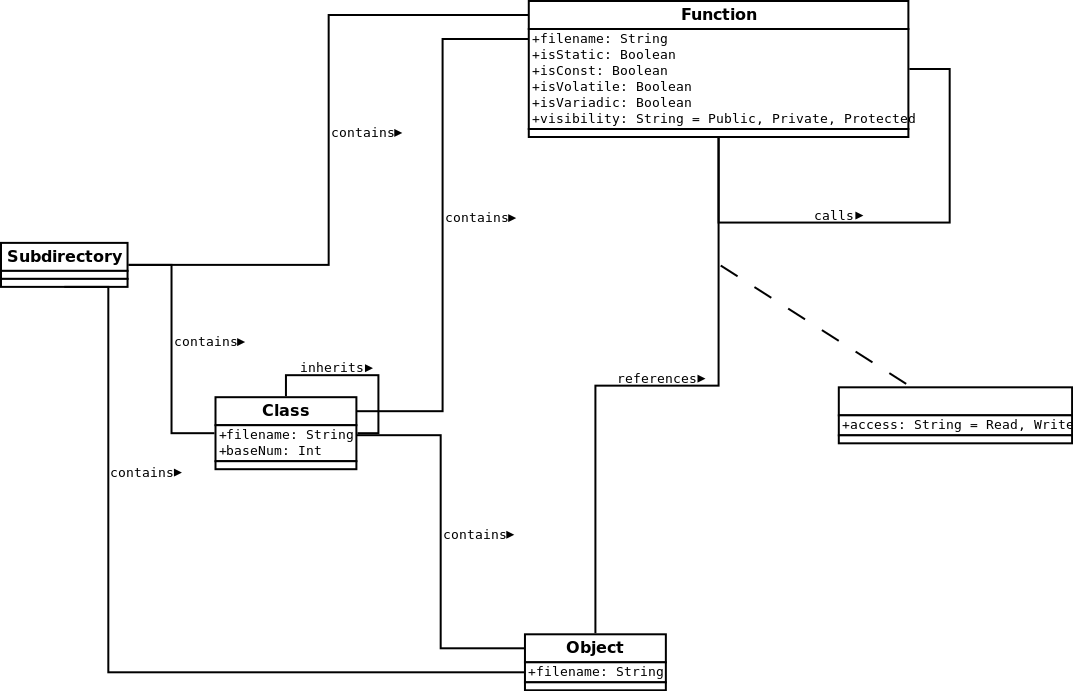
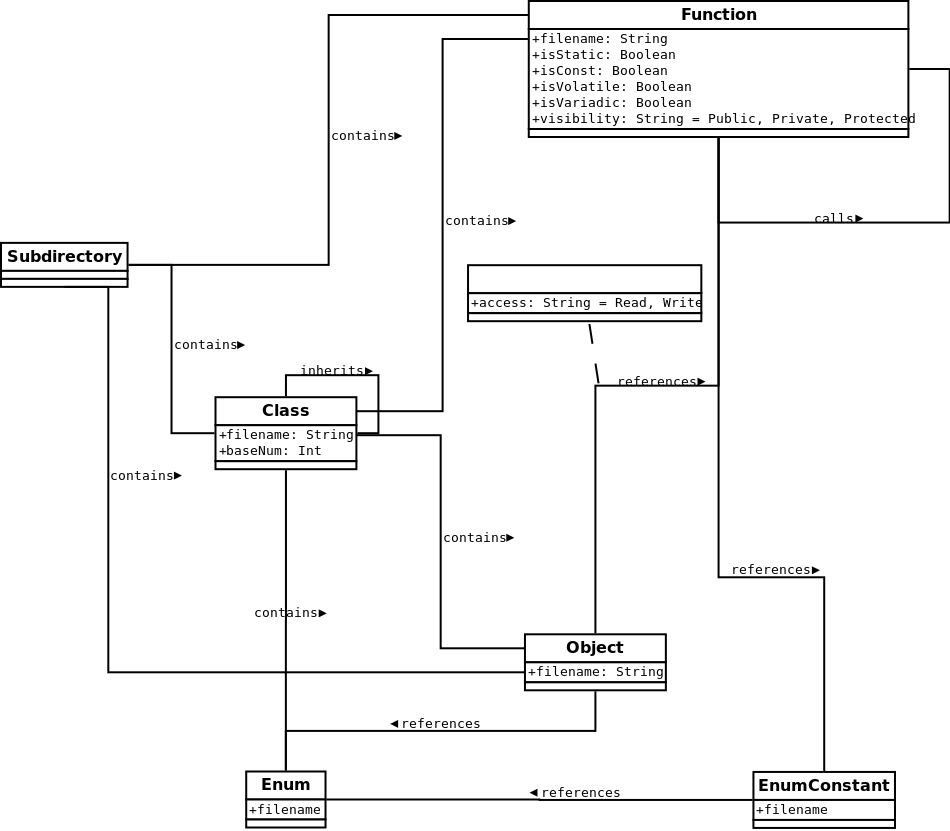
Changed the object entity to variable

Changed region(s): [[0.0, 0.0, 1.0, 1.0]]

diff --git a/Graph/TAGraph.h b/Graph/TAGraph.h
@@ -45,22 +45,18 @@ private:
 
     std::string const TA_SCHEMA = "//Generated TA File\n//Author: Jingwei Wu & Bryan J Muscedere\n\nSCHEME TUPLE :\n//No"
             "des\n$INHERIT\tcArchitecturalNds\tcRoot\n$INHERIT\tcAsgNds\t\t\tcRoot\n$INHERIT\tcSubSystem\t\tcArchitectur"
-            "alNds\n$INHERIT\tcFile\t\t\tcArchitecturalNds\n$INHERIT\tcExecutable\t\tcFile\n$INHERIT\tcObjectFile\t\tcFi"
-            "le\n$INHERIT\tcArchiveFile\t\tcFile\n$INHERIT\tcClass\t\t\tcAsgNds\n$INHERIT\tcFunction\t\tcAsgNds\n$INHERI"
-            "T\tcObject\t\t\tcAsgNds\n$INHERIT\tcLang\t\t\tcAsgNds\n$INHERIT\tcEnum\t\t\tcLang\n$INHERIT\tcStruct\t\t\tc"
-            "Lang\n$INHERIT\tcUnion\t\t\tcLang\n\n//Relationships\ncontain\t\tcRoot\t\tcRoot\ncall\t\tcFunction\tcFuncti"
-            "on\nreference\tcAsgNds\t\tcAsgNds\ninherits\tcClass\t\tcClass\n\nSCHEME ATTRIBUTE :\n$ENTITY {\n\tx\n\ty\n"
-            "\twidth\n\theight\n\tlabel\n}\n\ncRoot {\n\telision = contain\n\tcolor = (0.0 0.0 0.0)\n\tfile\n\tline\n\tn"
-            "ame\n}\n\ncAsgNds {\n\tbeg\n\tend\n\tfile\n\tline\n\tvalue\n\tcolor = (0.0 0.0 0.0)\n}\n\ncArchitecturalNds"
-            " {\n\tclass_style = 4\n\tcolor = (0.0 0.0 1.0)\n\tcolor = (0.0 0.0 0.0)\n}\n\ncSubSystem {\n\tclass_style ="
-            " 4\n\tcolor = (0.0 0.0 1.0)\n}\n\ncFile {\n\tclass_style = 2\n\tcolor = (0.9 0.9 0.9)\n\tlabelcolor = (0.0 "
-            "0.0 0.0)\n}\n\ncExecutable {\n\tclass_style = 4\n\tcolor = (0.8 0.9 0.9)\n\tlabelcolor = (0.0 0.0 0.0)\n}\n"
-            "\ncObjectFile {\n\tclass_style = 4\n\tcolor = (0.6 0.8 0.6)\n\tlabelcolor = (0.0 0.0 0.0)\n}\n\ncArchiveFil"
-            "e {\n\tclass_style = 4\n\tcolor = (0.5 0.5 0.1)\n\tlabelcolor = (0.0 0.0 0.0)\n}\n\ncFunction {\n\tfilename"
-            "\n\tisStatic\n\tisConst\n\tisVolatile\n\tisVariadic\n\tvisibility\n\tcolor = (1.0 0.0 0.0)\n\tlabelcolor = "
-            "(0.0 0.0 0.0)\n}\n\ncObject {\n\tfilename\n}\n\ncClass {\n\tfilename\n\tbaseNum\n\tcolor = (0.2 0.4 0.1)\n"
-            "\tlabelcolor = (0.0 0.0 0.0)\n}\n\ncEnum {\n\tfilename\n\tcolor = (0.9 0.2 0.5)\n\tlabelcolor = (0.0 0.0 0."
-            "0)\n}\n\n(reference) {\n\taccess\n}\n\n";
+            "alNds\n$INHERIT\tcFile\t\t\tcArchitecturalNds\n$INHERIT\tcClass\t\t\tcAsgNds\n$INHERIT\tcFunction\t\tcAsgNd"
+            "s\n$INHERIT\tcVariable\t\tcAsgNds\n$INHERIT\tcLang\t\t\tcAsgNds\n$INHERIT\tcEnum\t\t\tcLang\n$INHERIT\tcStr"
+            "uct\t\t\tcLang\n$INHERIT\tcUnion\t\t\tcLang\n\n//Relationships\ncontain\t\tcRoot\t\tcRoot\ncall\t\tcFunctio"
+            "n\tcFunction\nreference\tcAsgNds\t\tcAsgNds\ninherits\tcClass\t\tcClass\n\nSCHEME ATTRIBUTE :\n$ENTITY {\n\t"
+            "x\n\ty\n\twidth\n\theight\n\tlabel\n}\n\ncRoot {\n\telision = contain\n\tcolor = (0.0 0.0 0.0)\n\tfile\n\tl"
+            "ine\n\tname\n}\n\ncAsgNds {\n\tbeg\n\tend\n\tfile\n\tline\n\tvalue\n\tcolor = (0.0 0.0 0.0)\n}\n\ncArchitec"
+            "turalNds {\n\tclass_style = 4\n\tcolor = (0.0 0.0 1.0)\n\tcolor = (0.0 0.0 0.0)\n}\n\ncSubSystem {\n\tclass"
+            "_style = 4\n\tcolor = (0.0 0.0 1.0)\n}\n\ncFile {\n\tclass_style = 2\n\tcolor = (0.9 0.9 0.9)\n\tlabelcolor"
+            " = (0.0 0.0 0.0)\n}\n\ncFunction {\n\tfilename\n\tisStatic\n\tisConst\n\tisVolatile\n\tisVariadic\n\tvisibi"
+            "lity\n\tcolor = (1.0 0.0 0.0)\n\tlabelcolor = (0.0 0.0 0.0)\n}\n\ncVariable {\n\tfilename\n}\n\ncClass {\n\t"
+            "filename\n\tbaseNum\n\tcolor = (0.2 0.4 0.1)\n\tlabelcolor = (0.0 0.0 0.0)\n}\n\ncEnum {\n\tfilename\n\tcol"
+            "or = (0.9 0.2 0.5)\n\tlabelcolor = (0.0 0.0 0.0)\n}\n\n(reference) {\n\taccess\n}\n\n";
 
     std::string generateInstances();
     std::string generateRelationships();

diff --git a/ASTWalker.cpp b/ASTWalker.cpp
@@ -143,8 +143,8 @@ void ASTWalker::generateASTMatches(MatchFinder *finder) {
         finder->addMatcher(callExpr(isExpansionInMainFile(), hasAncestor(functionDecl().bind(types[CALLER]))).bind(types[FUNC_CALL]), this);
     }
 
-    //Object methods.
-    if (!exclusions.cObject){
+    //Variable methods.
+    if (!exclusions.cVariable){
         //Finds variables in functions or in class declaration.
         finder->addMatcher(varDecl(isExpansionInMainFile()).bind(types[VAR_DEC]), this);
 
@@ -337,13 +337,13 @@ void ASTWalker::addVariableDecl(const MatchFinder::MatchResult result, const Var
     string fileName = generateFileName(result, decl->getInnerLocStart());
 
     //Get the ID of the variable.
-    string ID = generateID(fileName, decl->getNameAsString(), ClangNode::OBJECT);
+    string ID = generateID(fileName, decl->getNameAsString(), ClangNode::VARIABLE);
 
     //Next, gets the qualified name.
-    string qualName = generateLabel(decl, ClangNode::OBJECT);
+    string qualName = generateLabel(decl, ClangNode::VARIABLE);
 
     //Creates a variable entry.
-    ClangNode* node = new ClangNode(ID, qualName, ClangNode::OBJECT);
+    ClangNode* node = new ClangNode(ID, qualName, ClangNode::VARIABLE);
     graph.addNode(node);
 
     //Process attributes.
@@ -434,7 +434,7 @@ void ASTWalker::addVariableRef(const MatchFinder::MatchResult result,
                                const VarDecl *decl, const DeclaratorDecl *caller, const DeclRefExpr *expr) {
     //Start by generating the ID of the caller and callee.
     string callerName = generateLabel(caller, ClangNode::FUNCTION);
-    string varName = generateLabel(decl, ClangNode::OBJECT);
+    string varName = generateLabel(decl, ClangNode::VARIABLE);
 
     //Next, we find their IDs.
     vector<ClangNode*> callerNode = graph.findNodeByName(callerName);
@@ -501,9 +501,9 @@ void ASTWalker::addClassRef(const MatchFinder::MatchResult result,
 
 void ASTWalker::addClassRef(const MatchFinder::MatchResult result,
                             const CXXRecordDecl* classRec, const VarDecl* varRec){
-    //Generate the label of the class and the object.
+    //Generate the label of the class and the variable.
     string className = generateLabel(classRec, ClangNode::CLASS);
-    string objName = generateLabel(varRec, ClangNode::OBJECT);
+    string objName = generateLabel(varRec, ClangNode::VARIABLE);
 
     addClassRef(className, objName);
 }
@@ -598,7 +598,7 @@ void ASTWalker::addEnumDecl(const MatchFinder::MatchResult result, const EnumDec
 void ASTWalker::addEnumRef(const MatchFinder::MatchResult result, const EnumDecl *decl,
                            const VarDecl *parent) {
     //First, get the names for both the parent and the enum.
-    string varLabel = generateLabel(parent, ClangNode::OBJECT);
+    string varLabel = generateLabel(parent, ClangNode::VARIABLE);
     string enumLabel = generateLabel(decl, ClangNode::ENUM);
 
     //Get the nodes by their label.
@@ -638,7 +638,7 @@ string ASTWalker::generateLabel(const Decl* decl, ClangNode::NodeType type){
     //Get qualified name.
     if (type == ClangNode::FUNCTION){
         label = decl->getAsFunction()->getQualifiedNameAsString();
-    } else if (type == ClangNode::OBJECT){
+    } else if (type == ClangNode::VARIABLE){
         const VarDecl* var = static_cast<const VarDecl*>(decl);
         label = var->getQualifiedNameAsString();
 

diff --git a/ClangArgParse.cpp b/ClangArgParse.cpp
@@ -319,8 +319,8 @@ ClangArgParse::ClangExclude ClangArgParse::generateExclusions(){
                 exVals.cClass = true;
             } else if (item.compare("cFunction") == 0){
                 exVals.cFunction = true;
-            } else if (item.compare("cObject") == 0) {
-                exVals.cObject = true;
+            } else if (item.compare("cVariable") == 0) {
+                exVals.cVariable = true;
             } else if (item.compare("cEnum") == 0) {
                 exVals.cEnum = true;
             } else {

diff --git a/Graph/ClangNode.h b/Graph/ClangNode.h
@@ -49,7 +49,7 @@ private:
     } AccessStruct;
 
 public:
-    enum NodeType {FILE, OBJECT, FUNCTION, SUBSYSTEM, CLASS, UNION, STRUCT, ENUM};
+    enum NodeType {FILE, VARIABLE, FUNCTION, SUBSYSTEM, CLASS, UNION, STRUCT, ENUM};
     static std::string getTypeString(NodeType type);
 
     ClangNode(std::string ID, std::string name, NodeType type);

diff --git a/Graph/ClangNode.cpp b/Graph/ClangNode.cpp
@@ -15,7 +15,7 @@ string ClangNode::getTypeString(NodeType type) {
     //Generates switch statement.
     if (type == FILE){
         return "cFile";
-    } else if (type == OBJECT){
+    } else if (type == VARIABLE){
         return "cObject";
     } else if (type == FUNCTION){
         return  "cFunction";

diff --git a/ClangArgParse.h b/ClangArgParse.h
@@ -13,7 +13,7 @@ class ClangArgParse {
 public:
     typedef struct {
         bool cClass = false;
-        bool cObject = false;
+        bool cVariable = false;
         bool cSubSystem = false;
         bool cFunction = false;
         bool cEnum = false;
